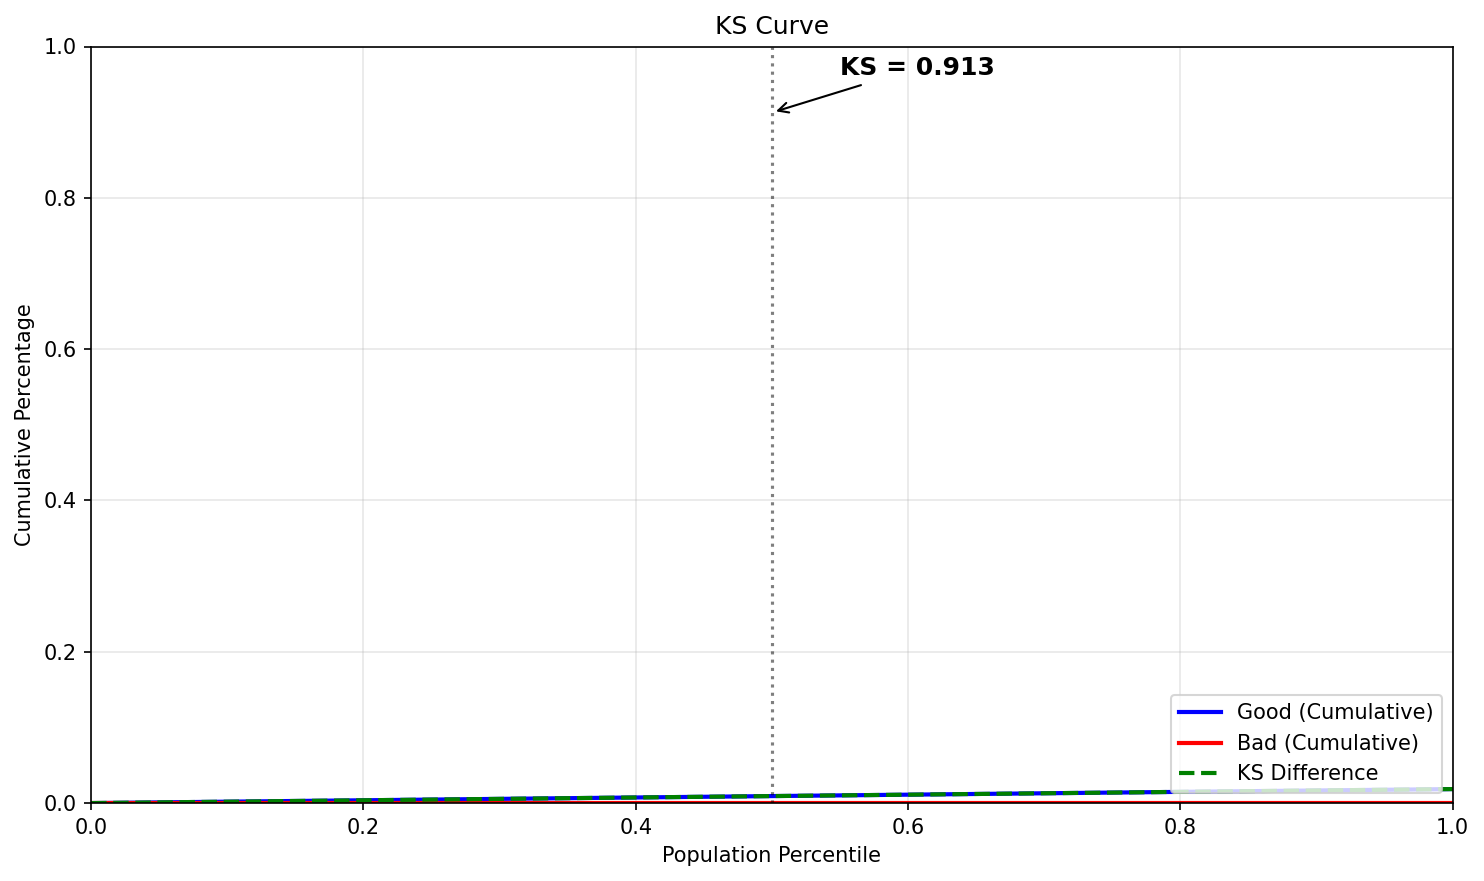
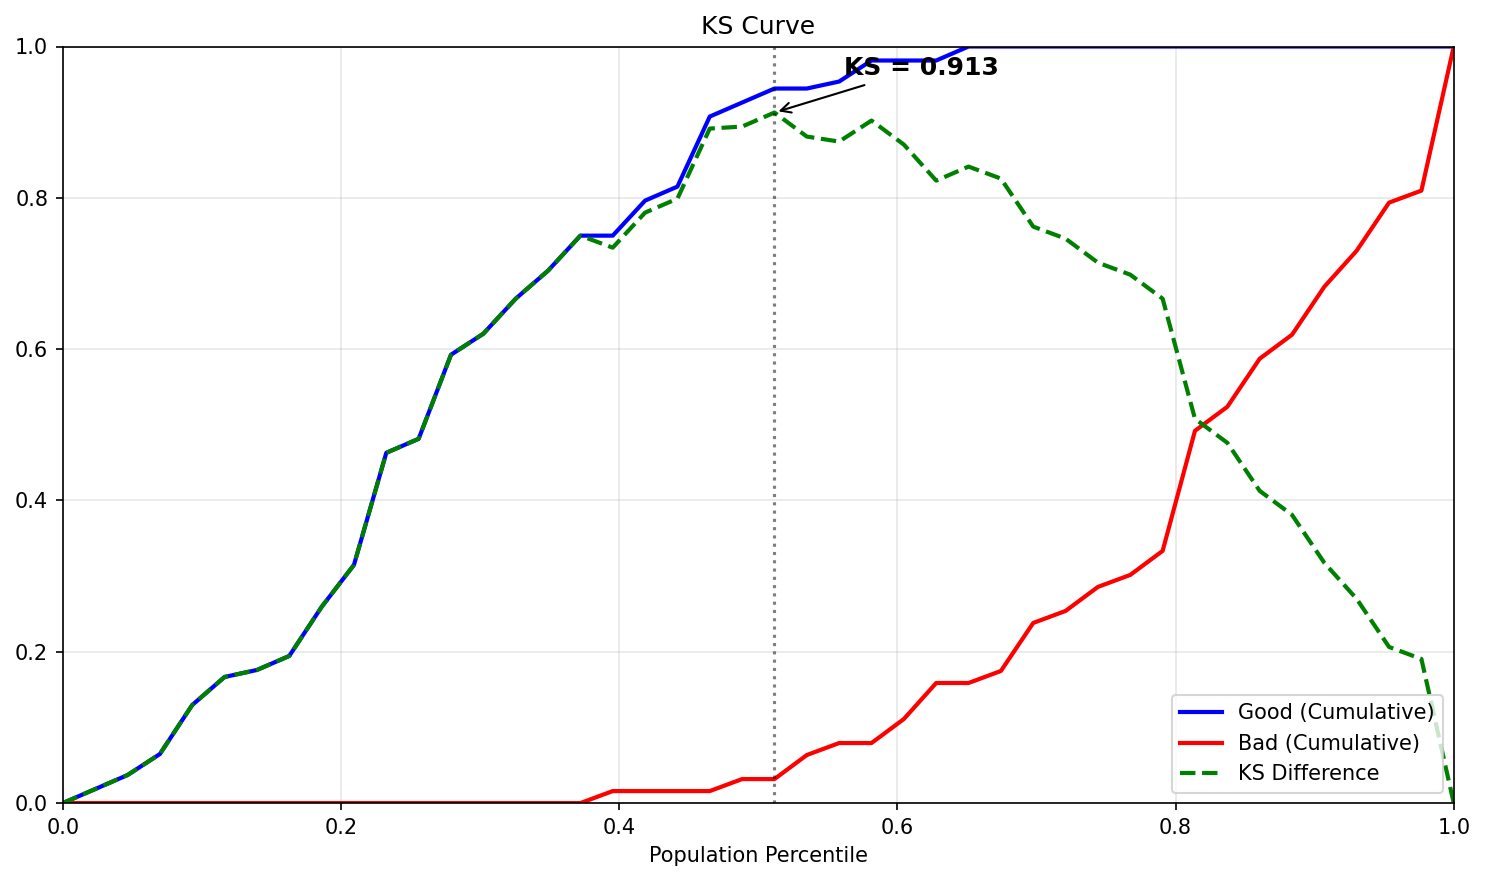
fix: correct KS plot x-axis — normalize to population percentile 0-1
ax.plot(tpr) used raw array indices as x-axis, but set_xlim(0,1)
then only showed ~1% of the data. Now uses np.linspace(0,1,len(tpr))
so the full cumulative distribution is visible.

diff --git a/ScoreCardModel/analytics/plotting.py b/ScoreCardModel/analytics/plotting.py
@@ -16,21 +16,22 @@ def plot_ks(y_true: np.ndarray, y_prob: np.ndarray, title: str = "KS Curve") -> 
     ks_idx = np.argmax(tpr - fpr)
     ks_stat = tpr[ks_idx] - fpr[ks_idx]
 
+    x = np.linspace(0, 1, len(tpr))
+
     fig, ax = plt.subplots(figsize=(10, 6))
-    ax.plot(tpr, label='Good (Cumulative)', color='blue', lw=2)
-    ax.plot(fpr, label='Bad (Cumulative)', color='red', lw=2)
+    ax.plot(x, tpr, label='Good (Cumulative)', color='blue', lw=2)
+    ax.plot(x, fpr, label='Bad (Cumulative)', color='red', lw=2)
     diff = tpr - fpr
-    ax.plot(diff, label='KS Difference', color='green', lw=2, linestyle='--')
-    ax.axvline(ks_idx / len(diff), color='black', linestyle=':', alpha=0.5)
-    ax.annotate(f'KS = {ks_stat:.3f}', xy=(ks_idx / len(diff), ks_stat),
+    ax.plot(x, diff, label='KS Difference', color='green', lw=2, linestyle='--')
+    ax.axvline(x[ks_idx], color='black', linestyle=':', alpha=0.5)
+    ax.annotate(f'KS = {ks_stat:.3f}', xy=(x[ks_idx], ks_stat),
                 fontsize=12, fontweight='bold',
-                xytext=(ks_idx / len(diff) + 0.05, ks_stat + 0.05),
+                xytext=(x[ks_idx] + 0.05, ks_stat + 0.05),
                 arrowprops={"arrowstyle": '->', "color": 'black'})
 
     ax.set_xlim(0, 1)
     ax.set_ylim(0, 1)
     ax.set_xlabel('Population Percentile')
-    ax.set_ylabel('Cumulative Percentage')
     ax.set_title(title)
     ax.legend(loc='lower right')
     ax.grid(True, alpha=0.3)
